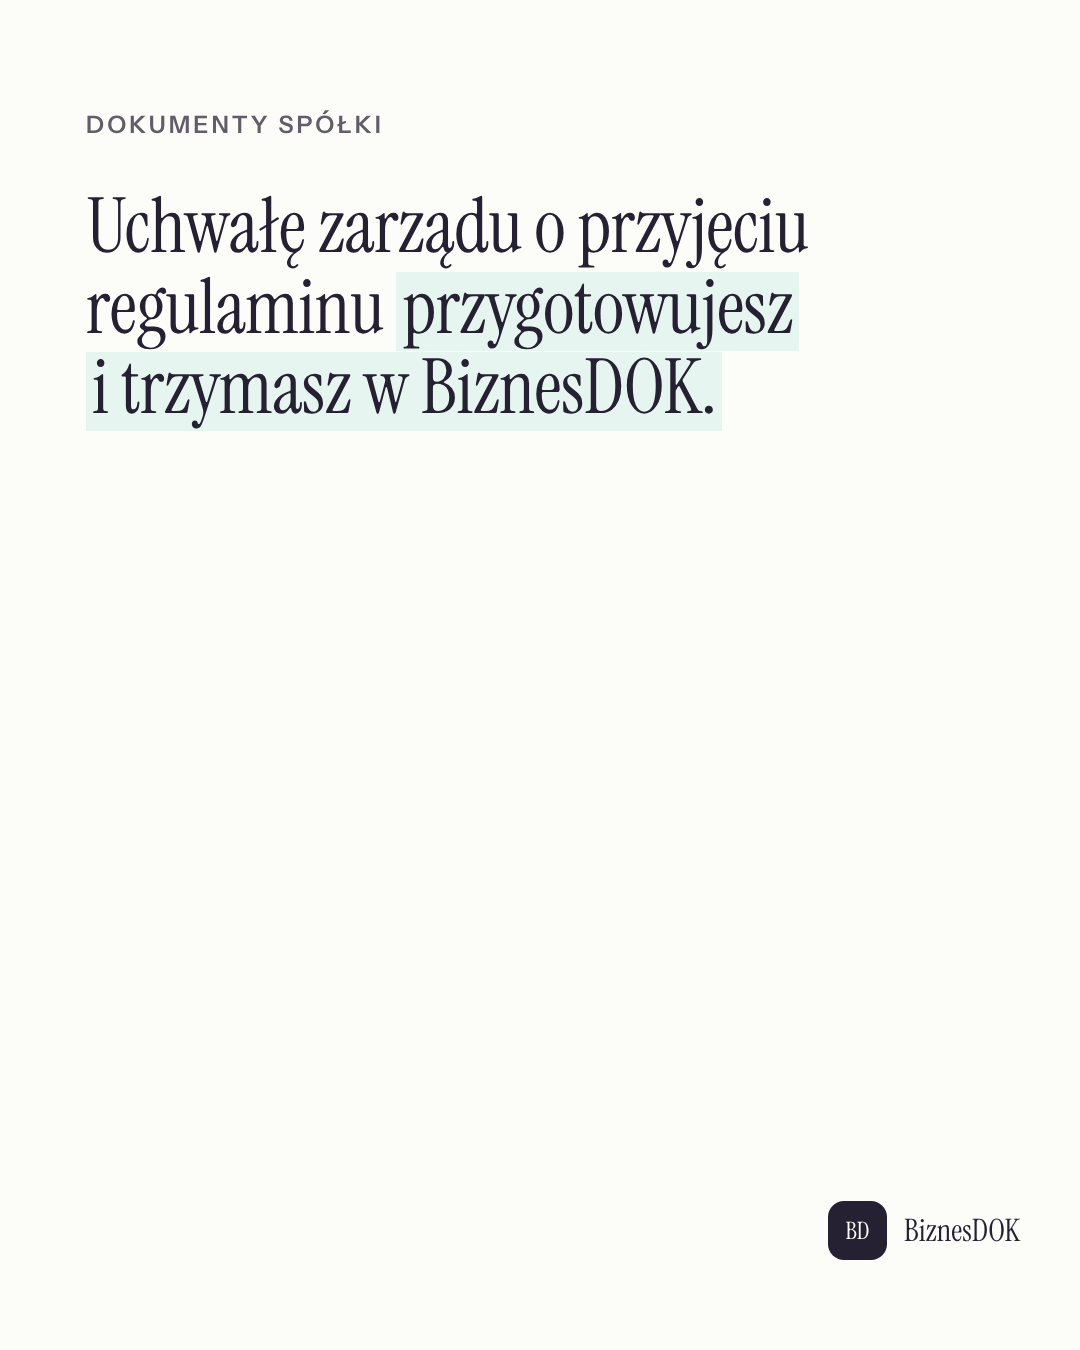
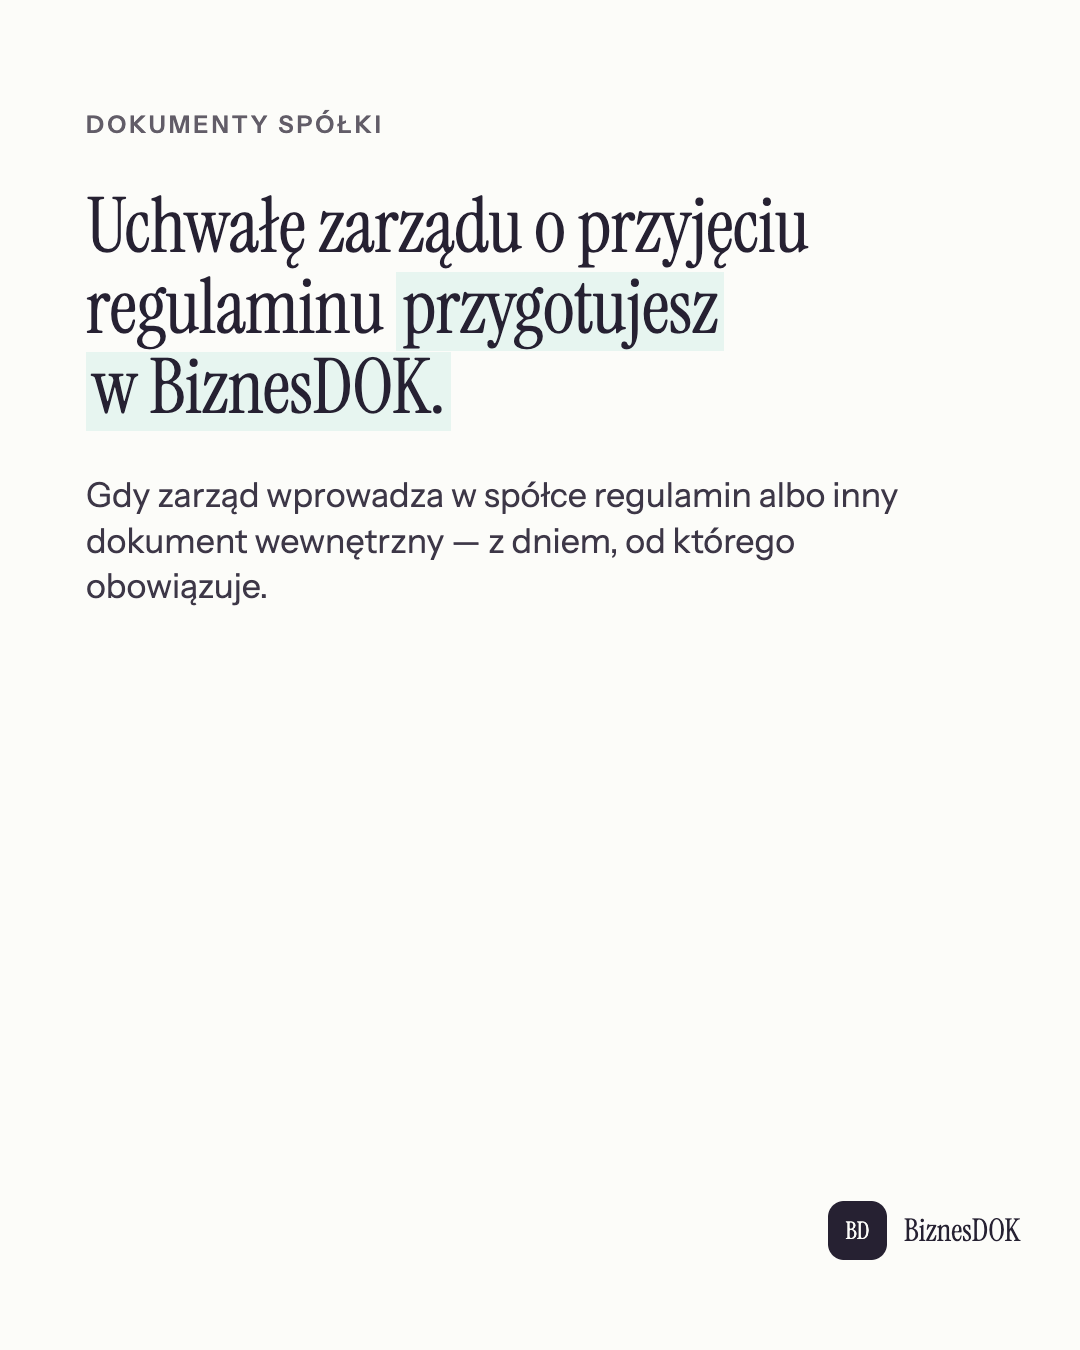
treści: poprawki z audytu zrozumiałości postów (26.10) i zasada „czyli / skrót / kiedy się przyda”
- 27.10 karuzela poradnika: przedawnienie wyjaśnione słowami poradnika, slajd „Co możesz doliczyć” prostym językiem
- 28.10 B2B i porozumienie zmieniające, 29.10 porozumienie zlecenia i protokół NZW, LinkedIn 27.10: „przygotujesz w BiznesDOK” + kiedy się przyda zamiast „przygotowujesz i trzymasz”
- 29.10 i 30.10: NZW, KRS i MSiG rozwinięte; 30.10 akta: od czego zależy 10 czy 50 lat (fakt ze strony narzędzia dopisany do oferty)
- CLAUDE.md: zasada 11 (zrozumiałość dla laika), nowy wzór serii płatnych dokumentów
- kontrola: miękka uwaga za skrót bez rozwinięcia i stary wzór; „na swoim koncie” blokuje przy bezpłatnym

diff --git a/CLAUDE.md b/CLAUDE.md
@@ -73,7 +73,7 @@ Decyzje właściciela: 06.10 i 10.10.2026 — agent marketingu prowadzi stronę 
 | pn | płatny dokument (najpierw priorytet A) | płatny dokument | — |
 | wt | karuzela z poradnika w sezonie (prowadzi do płatnych dokumentów) | płatny dokument | dokument spółki |
 | śr | płatny dokument | płatny dokument | — |
-| czw | płatny dokument („…przygotowujesz i trzymasz w BiznesDOK”) | płatny dokument | poradnik spółkowy albo seria AI (na zmianę) |
+| czw | płatny dokument („…przygotujesz w BiznesDOK” i kiedy się przyda) | płatny dokument | poradnik spółkowy albo seria AI (na zmianę) |
 | pt | tydzień parzysty: seria „AI zawiodło? Decyduje prawnik”; nieparzysty: Subskrypcja albo bezpłatne narzędzie/dokument w sezonie | bezpłatne narzędzie albo dokument w sezonie — jedyna bezpłatna relacja w tygodniu | — |
 
 Wideo (12:45): rotacja zatwierdzonych urywków (sekcja „Wideo w trybie 2”). Proporcje pilnowane przez kontrolę: płatne dokumenty i Subskrypcja co najmniej 60% publikacji graficznych w tygodniu, bezpłatne najwyżej 2, seria AI co 2 tygodnie, Subskrypcja co najmniej raz na 2 tygodnie, karuzela z poradnika co tydzień (gdy jest poradnik w sezonie).
@@ -94,9 +94,9 @@ Decyzja właściciela 29.09.2026 (LINKEDIN_GUIDELINES §9), wykonanie od 20.10.2
 - pierwsze zdanie grafiki albo opisu jest pytaniem (poza serią AI) — zaczynamy od tego, co robi BiznesDOK;
 - AI poza serią „AI zawiodło?” i nazwy konkretnych narzędzi AI (zawsze);
 - zakazane zwroty („Masz problem?”, „Mamy rozwiązanie”, „Czy wiesz, że…?”, „startujemy”, „rewolucjonizujemy”, obietnica gwarancji), obietnica czasu („w minutę”, „oszczędzasz…”);
-- „każdy dokument” (poza Subskrypcją) — nie wszystkie dokumenty mają te same funkcje; identyfikator i weryfikacja przy bezpłatnym dokumencie (bezpłatne nie mają ID); „…przygotowujesz i trzymasz” przy bezpłatnym.
+- „każdy dokument” (poza Subskrypcją) — nie wszystkie dokumenty mają te same funkcje; identyfikator i weryfikacja przy bezpłatnym dokumencie (bezpłatne nie mają ID); „…trzymasz” albo „na swoim koncie” przy bezpłatnym.
 
-**Miękkie uwagi** (do poprawy w trybie 2): kwoty w złotych, hasztagi, „Link w bio → …”, brak adresu na relacji, długość i link z UTM na LinkedIn, minięty termin.
+**Miękkie uwagi** (do poprawy w trybie 2): skrót bez rozwinięcia (NZW, ZZW, KRS, MSiG, RDF, ZUS RIA), stary wzór „przygotowujesz i trzymasz”, kwoty w złotych, hasztagi, „Link w bio → …”, brak adresu na relacji, długość i link z UTM na LinkedIn, minięty termin.
 
 **Stan na bieżąco:** `node tools/zgodnosc.mjs` (raport do `RAPORTY.md` w trybie 2; `--krotko` — jedno zdanie, wypisuje je też `run.mjs`). `node tools/check.mjs` (CI przy każdym pushu) odrzuca zaplanowane posty z twardą uwagą i błędy w `data/oferta.json` i `data/seria-ai.json`.
 
@@ -125,9 +125,14 @@ W sprawach współpracy z biurem obowiązuje księga KMZ. Zasady biura, które d
 5. **Ton:** konkretny, profesjonalny, prosty, pewny siebie bez zadęcia. **Pierwsze zdanie mówi, co robi BiznesDOK** — bez pytania na start (wyjątek: seria AI). Product-first: znane zadanie → prostszy sposób z BiznesDOK → praca zdjęta z klienta → treść od prawników → CTA. Zakazane: „Masz problem?”, „Mamy rozwiązanie”, „Czy wiesz, że…?”, „startujemy”, „rewolucjonizujemy”, tłumaczenie oczywistego celu dokumentu, obietnice wyniku prawnego, sugerowanie indywidualnej porady prawnej.
 6. **AI nie jest autorem dokumentów** — nie piszemy o AI poza serią „AI zawiodło? Decyduje prawnik”. Treść przygotowują prawnicy (Katarzyna Zawadzka Legal Consulting), technologia uzupełnia dane.
 7. **Bez powtórek:** ten sam temat nie wraca na Instagramie przez 21 dni, a na LinkedIn przez 120 dni; to samo hasło na grafice — nigdy. Każdy temat ma swój okres przydatności (`sezon`) — w sezonie ma pierwszeństwo.
-8. **Serie stałe:** płatny dokument — „[Dokument] przygotowujesz i trzymasz w BiznesDOK.”; bezpłatny — „[Dokument] przygotujesz w BiznesDOK — bezpłatnie, bez konta.” (nigdy „trzymasz” przy bezpłatnym).
+8. **Serie stałe:** płatny dokument — „[Dokument] przygotujesz w BiznesDOK.” i w podtytule, kiedy się przyda, albo konkretna korzyść; gdy jest miejsce: „Po zakupie dokument zostaje na Twoim koncie.” Bezpłatny — „[Dokument] przygotujesz w BiznesDOK — bezpłatnie, bez konta.” (nigdy „na swoim koncie” przy bezpłatnym). Wzoru „przygotowujesz i trzymasz” już nie używamy (audyt zrozumiałości, przyjęty przez właściciela 26.10.2026: „trzymasz” jest niejasne, a powtarzany wzór zlewa posty).
 9. **Grafiki tylko z `tools/render.mjs`** (brandbook: paper, Instrument Serif, clause highlight `[[...]]`, lockup BD prawy dół). Bez zdjęć, stocków, ikon, grafik AI, nowych kolorów i sloganów.
 10. **Opis:** wnosi coś nowego względem grafiki, kończy się jednym CTA („Link w bio → Narzędzia / Poradniki / Dokumenty”) i 5–8 hashtagami, w tym `#biznesdok`.
+11. **Zrozumiałość dla laika** (audyt zrozumiałości, przyjęty przez właściciela 26.10.2026). Piszemy dla przedsiębiorcy, który nie zna prawa pracy ani spółek:
+    - termin fachowy w tytule, a w pierwszym zdaniu jego rozwinięcie po „czyli” albo myślniku, najlepiej jako „co się zmienia dla mnie” (np. „Wypowiedzenie zmieniające, czyli pismo, w którym proponujesz pracownikowi nowe warunki pracy lub płacy”);
+    - skrót rozwijamy przy pierwszym użyciu w poście: nadzwyczajne zgromadzenie wspólników (NZW), Krajowy Rejestr Sądowy (KRS), Monitor Sądowy i Gospodarczy (MSiG), Repozytorium Dokumentów Finansowych (RDF), raport informacyjny ZUS RIA; na relacji, gdzie miejsca brak, lepiej pełna nazwa bez skrótu;
+    - każdy post mówi, kiedy się przyda („Gdy pracownik zgadza się na…”, „Gdy wspólnicy odwołują…”), a nie tylko, co to za dokument; termin podaje, od czego się liczy („15 dni od zatwierdzenia”), a urząd albo rejestr nazywa wprost;
+    - rozwinięcie i „kiedy się przyda” bierzemy wyłącznie z faktów oferty i opublikowanych poradników (punkt 3) — nie dopisujemy własnych definicji prawnych; gdy w faktach brak prostego wyjaśnienia, zostaw sam termin z kontekstem z faktów i zgłoś brak w podsumowaniu.
 
 ## Format posta (queue/*.json)
 
